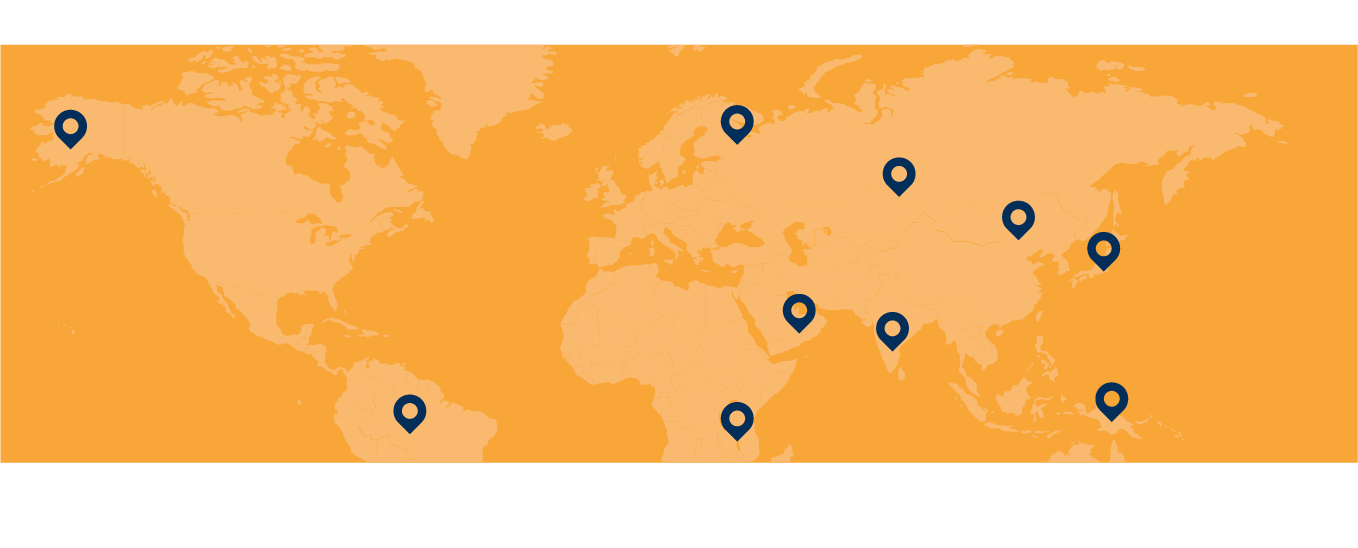
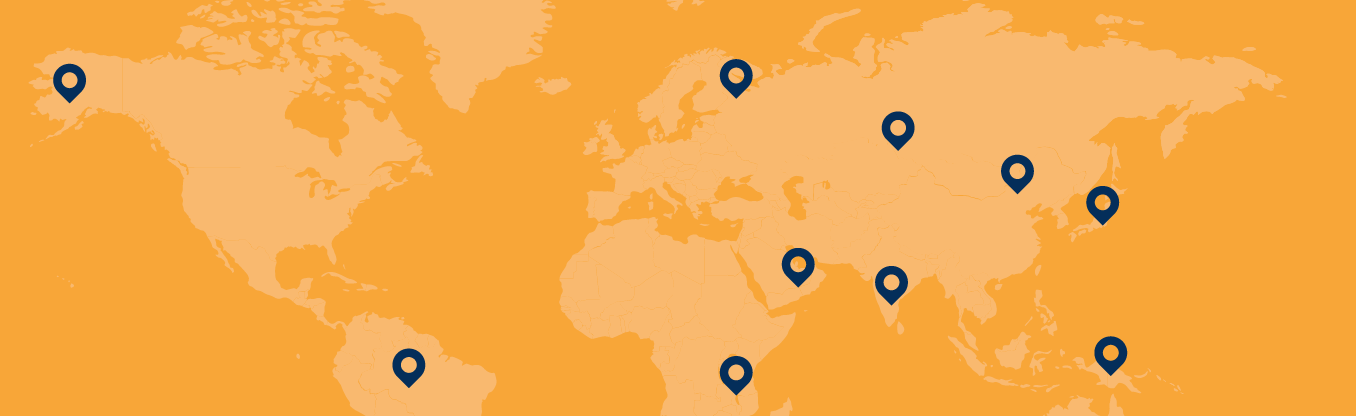
Small updates to the main homepage

diff --git a/app/assets/stylesheets/dta/home.css.scss b/app/assets/stylesheets/dta/home.css.scss
@@ -21,6 +21,15 @@ body.bodyoverride {
 
 #homepage {
 
+
+  .btn-round {
+    background-color: #002D59;
+    font-family: Avenir;
+    font-size: 16px;
+    letter-spacing: 1px;
+    border-radius: 30px 30px 30px 30px;
+  }
+
   #home_search {
     height: 600px;
     background-image: image-url('home/homepage_header_bg.png');
@@ -61,12 +70,23 @@ body.bodyoverride {
     color: white;
     font-family: Avenir;
 
+    .navbar-toggle {
+      background-color: gray;
+    }
+
     .nav .open > a, .nav .open > a:hover, .nav .open > a:focus {
-      background-color: #337ab7;
-      border-color: #337ab7;
+      /*background-color: #337ab7;
+      border-color: #337ab7;*/
+      background-color: #FAA738;
+      border-color: #337ab7
     }
     .nav > li > a:hover, .nav > li > a:focus {
       text-decoration: none;
+      /*background-color: #337ab7;*/
+      background-color: #FAA738;
+    }
+
+    .dropdown-menu > li > a:hover {
       background-color: #337ab7;
     }
 
@@ -78,8 +98,9 @@ body.bodyoverride {
     }
 
     ul.dropdown-menu {
-      background-color: #002D59;
-      z-index: 100;
+      /*background-color: #002D59;*/
+      background-color: #FAA738;
+      z-index: 10000;
     }
   }
 
@@ -220,18 +241,17 @@ body.bodyoverride {
 
 
   #home_map {
-    height: 548px;
+    height: 416px;
     background-image: image-url('home/homepage_map_bg.png');
     background-repeat: repeat-x;
     background-position: left top;
-    margin-top: -45px;
 
     h1 {
       font-family: DTA;
       color: #002D59;
       letter-spacing: 2px;
       margin-left: 115px;
-      padding-top: 120px;
+      padding-top: 80px;
       margin-bottom: 0px;
       margin-top: 0px;
     }
@@ -246,22 +266,17 @@ body.bodyoverride {
     }
 
     #search_map_btn {
-      background-color: #002D59;
-      font-family: Avenir;
-      font-size: 16px;
-      letter-spacing: 1px;
       width: 220px;
       margin-left: 115px;
-      border-radius: 30px 30px 30px 30px;
+      text-transform: uppercase;
     }
   }
 
   #home_footer {
-    height: 189px;
+    height: 187px;
     background-image: image-url('shared/footer_bg.png');
     background-repeat: repeat-x;
     background-position: left top;
-    margin-top: -85px;
 
     .footer_logo {
       float: left;
@@ -305,6 +320,77 @@ body.bodyoverride {
       }
     }
 
+  }
+
+  #home_get_started {
+    background-color: #FFFFFF;
+
+    h2 {
+      font-family: DTA;
+      color: #002D59;
+      letter-spacing: 2px;
+      margin-left: 115px;
+      padding-top: 60px;
+      margin-bottom: 25px;
+      margin-top: 0px;
+      font-size: 36px;
+    }
+    div.icon_wrapper {
+      width: 200px;
+      margin: auto;
+      color: #002D59;
+      font-family: Avenir;
+
+      div.icon {
+        height: 180px;
+        margin-bottom: 30px;
+        position: relative;
+
+        img{
+          display: block;
+          max-width: 100%;
+          position: absolute;
+          bottom:0;
+          left:50%;
+          transform:translateX(-50%);
+        }
+
+      }
+
+      h3 {
+        text-transform: uppercase;
+        margin: 0px;
+        padding: 0px;
+        font-size: 25px;
+        font-weight: bold;
+      }
+
+      p {
+        font-size: 12px;
+        font-style: italic;
+        margin-top: 5px;
+        height: 68px;
+      }
+
+      div.icon_link {
+        a {
+          text-transform: uppercase;
+          font-weight: bold;
+        }
+      }
+    }
+
+    div.btn_wrapper {
+      clear:both;
+      padding-top: 35px;
+      margin-left: 115px;
+      padding-bottom: 50px;
+
+      #search_guides_btn {
+        width: 300px;
+        text-transform: uppercase;
+      }
+    }
   }
 
 }
